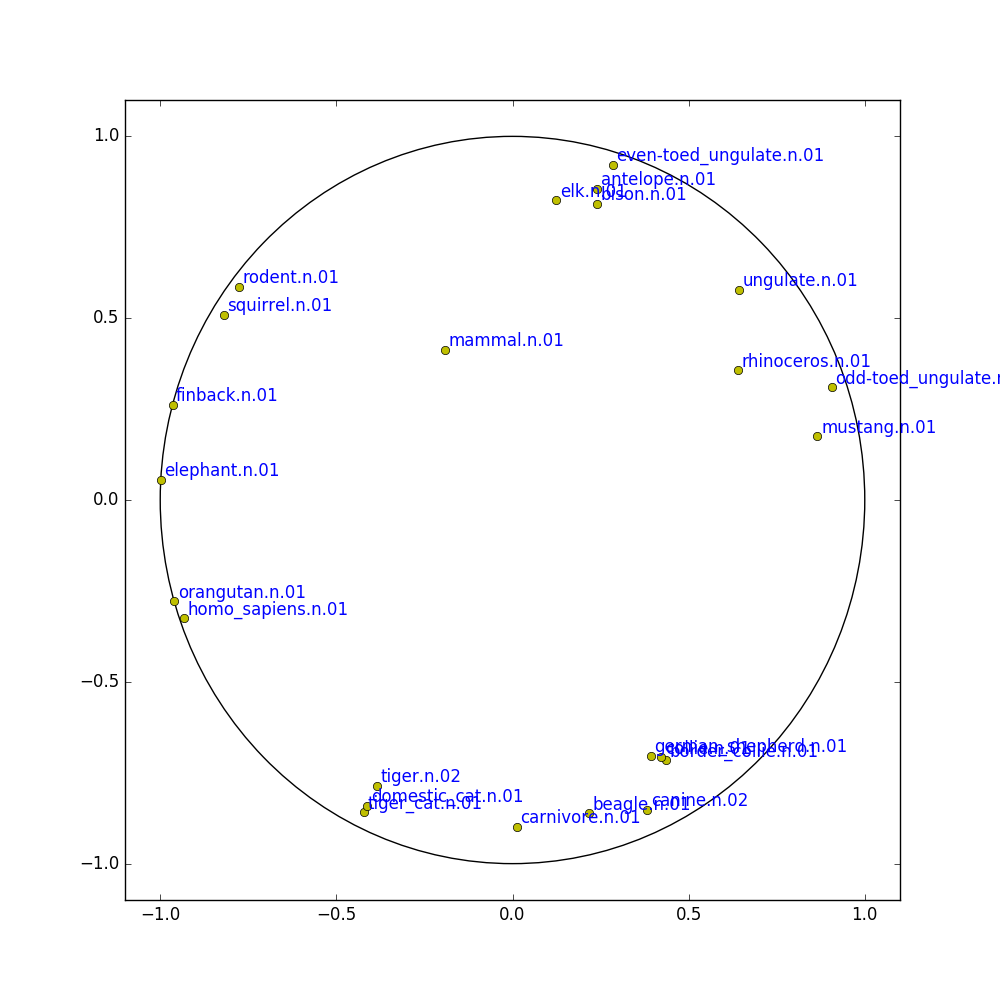
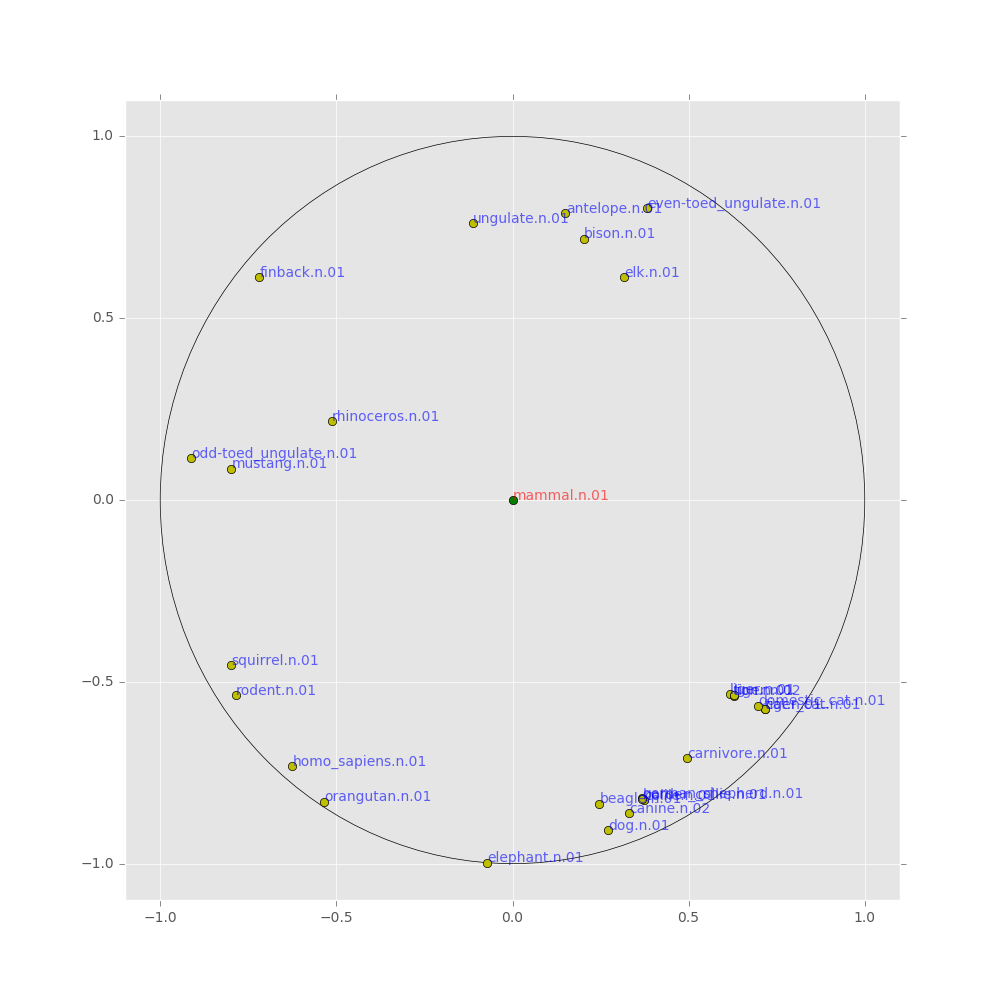
tiny modification

diff --git a/scripts/plot_mammal_subtree.py b/scripts/plot_mammal_subtree.py
@@ -5,9 +5,14 @@ import random
 import numpy as np
 import pandas as pd
 import matplotlib.pyplot as plt
+plt.style.use('ggplot')
 import click
 
 def transitive_isometry(t1, t0):
+    u'''
+    computing isometry which move t1 to t0
+    '''
+
     (x1, y1), (x0,y0) = t1, t0
 
     def to_h(z):
@@ -19,10 +24,12 @@ def transitive_isometry(t1, t0):
     z1 = complex(x1, y1)
     z0 = complex(x0, y0)
 
-    h1 = complex(to_h(z1))
-    h0 = complex(to_h(z0))
+    h1 = to_h(z1)
+    h0 = to_h(z0)
 
     def f(h):
+        assert( h0.imag > 0 )
+        assert( h1.imag > 0 )
         return h0.imag/h1.imag * (h - h1.real) + h0.real
 
     def ret(z):
@@ -39,7 +46,8 @@ def transitive_isometry(t1, t0):
 @click.argument("embedding_file")
 @click.option("--max_plot", default=30)
 @click.option("--left_is_parent", is_flag=True)
-def main(embedding_file, max_plot, left_is_parent):
+@click.option("--center_mammal", is_flag=True)
+def main(embedding_file, max_plot, left_is_parent, center_mammal):
 
     targets = ['mammal.n.01', 'beagle.n.01', 'canine.n.02', 'german_shepherd.n.01',
                'collie.n.01', 'border_collie.n.01',
@@ -55,7 +63,6 @@ def main(embedding_file, max_plot, left_is_parent):
     # load embeddings
     print("read embedding_file:", embedding_file)
     embeddings = pd.read_csv(embedding_file, header=None, sep="\t", index_col=0)
-
     print("plot")
     fig = plt.figure(figsize=(10,10))
     ax = plt.gca()
@@ -68,14 +75,22 @@ def main(embedding_file, max_plot, left_is_parent):
     ax.add_artist(circle)
 
     z = embeddings.ix['mammal.n.01']
-    isom = transitive_isometry((z[1], z[2]), (0, 0))
+    if center_mammal:
+        isom = transitive_isometry((z[1], z[2]), (0, 0))
 
     for n in targets:
         z = embeddings.ix[n]
-        x, y = isom((z[1], z[2]))
-        print(x, y)
-        ax.plot(x, y, 'o', color='y')
-        ax.text(x+0.001, y+0.001, n, color='b')
+        if center_mammal:
+            x, y = isom((z[1], z[2]))
+        else:
+            x, y = z[1], z[2]
+        print(z, x, y)
+        if n == 'mammal.n.01':
+            ax.plot(x, y, 'o', color='g')
+            ax.text(x+0.001, y+0.001, n, color='r', alpha=0.6)
+        else:
+            ax.plot(x, y, 'o', color='y')
+            ax.text(x+0.001, y+0.001, n, color='b', alpha=0.6)
     plt.show()
 
 if __name__ == '__main__':

diff --git a/README.md b/README.md
@@ -1,6 +1,6 @@
 # poincare-embedding
 
-This codes implement Poincar\'e Embedding introduced in the following paper:
+These codes implement Poincar\'e Embedding introduced in the following paper:
 
 [Maximilian Nickel and Douwe Kiela, "Poincar\'e Embeddings for Learning Hierarchical Representations'", arXiv preprint arXiv:1705.08039, 2017.](https://arxiv.org/abs/1705.08039)
 
@@ -41,12 +41,13 @@ python ../scripts/create_mammal_subtree.py ./mammal_subtree.tsv
 ### Run
 
 ```shell
-./poincare_embedding ./mammal_subtree.tsv ./embeddings.tsv -d 2 -t 8 -e 1000 -l 0.1 -L 0.0001 -n 20
+./poincare_embedding ./mammal_subtree.tsv ./embeddings.tsv -d 2 -t 8 -e 1000 -l 0.1 -L 0.0001 -n 50 -s 0
 ```
-### Plot Tree
+### Plot a Mammal Tree
 
 ```shell
-python ../scripts/plot_mammal_subtree.py ./embeddings.tsv
+python ../scripts/plot_mammal_subtree.py ./embeddings.tsv --center_mammal
 ```
 
 ![mammal.png](./misc/mammal.png)
+
